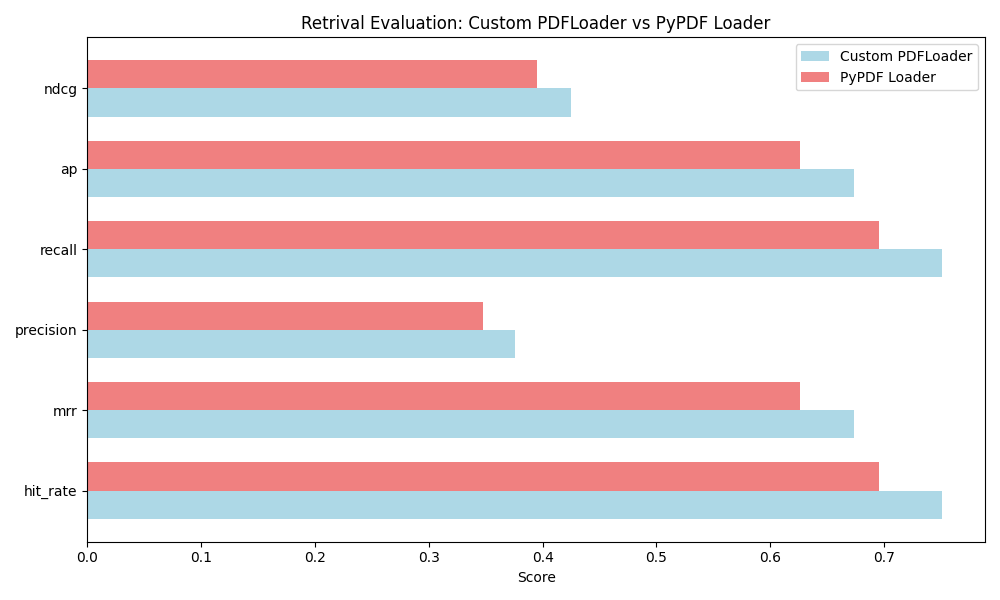
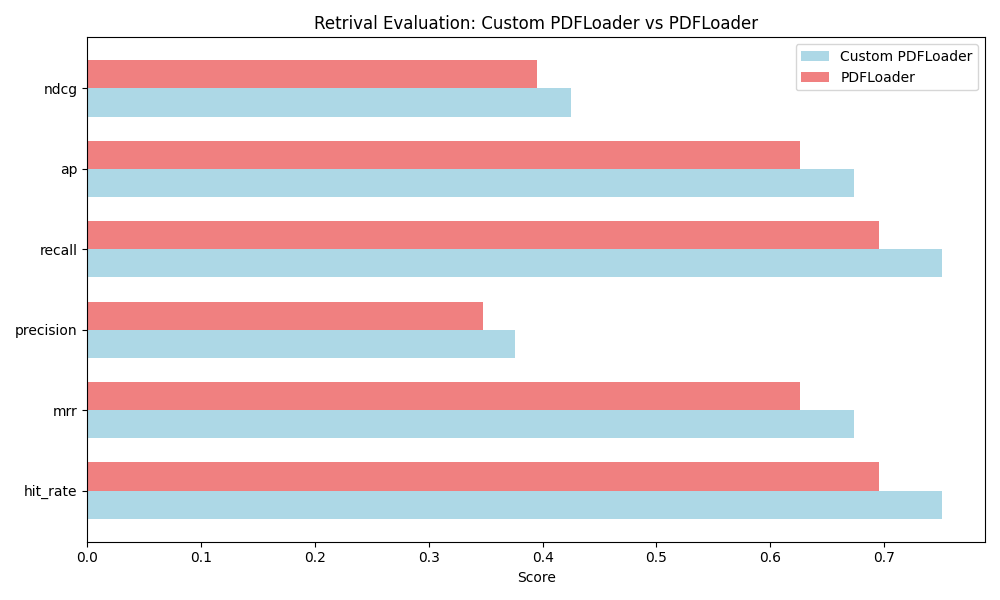
update

Changed region(s): [[0.279, 0.03, 0.775, 0.06], [0.837, 0.12, 0.93, 0.15]]

diff --git a/_posts/2024-08-27-pdfextractor.md b/_posts/2024-08-27-pdfextractor.md
@@ -20,10 +20,10 @@ Extracting text from PDFs are challenging in many aspects (can also read [this](
 
 <!-- Recently, the new model [ColPali](https://arxiv.org/html/2407.01449v2) has attracte a lot of attention, for its use of a vision-language model to extract information for retrieval purposes. This approach demonstrates that leveraging recent Vision Language Models can produce high-quality, contextualized embeddings directly from images of document pages. -->
 
-There are various PDF extraction tools available on the market. Some companies offer paid solutions with advanced capabilities, while several open-source Python packages, such as `PDFPlumber` and `PyPDF`, are also very useful. In this discussion, I will compare two different free PDF extraction Python packages, highlighting their advantages and disadvantages.
+There are various PDF extraction tools available on the market. Some companies offer paid solutions with advanced capabilities, while several open-source Python packages arealso very useful, such as `PyPDF`, `PDFPlumber`,etc.  In this discussion, I will compare effects of PDF extraction on the retreival performance. 
 
 
-## pdfplumber vs pypdf 
+## PDF extraction
 
 
 The following example compares the extraction results of pdfplumber and pypdf using a PDF excerpt from the [Swiss Civil Code](https://www.fedlex.admin.ch/eli/cc/24/233_245_233/en). The PDF page presents a high level of complexity, with text that is discontinuously arranged and interspersed with numerous footnotes.
@@ -49,15 +49,14 @@ The following example compares the extraction results of pdfplumber and pypdf us
 {% endif %}
 {:/nomarkdown}
 
-
-On the other hand, [`pypdf`](https://pypi.org/project/pypdf/) also allows for text extraction while maintaining the layout. You can use `visitor` functions to control which parts of a page you want to process and extract. However, it does not support extracting the coordinates of words.
+if we use pdfplumber directly without processing, the results looks like
 
 
 ## Evaluation
 
-I built two data loaders: one called `Custom PDFLoader`, which uses `pdfplumber` to combine discontinuous chunks into continuous sequences, and another called `PyPDF Loader`, which extracts the sequences directly using `PyPDF` without additional postprocessing.
+I built two data loaders: one called `Custom PDFLoader`, which uses `pdfplumber` to combine discontinuous chunks into continuous sequences, and another called `PDFLoader`, which extracts the sequences directly using `pdfplumber` without additional postprocessing.
 
-Here, I will use the `RetrieverEvaluator` module provided in `LLAMAIndex` to evaluate retrieval quality by comparing these two methods of PDF extraction: `Custom PDFLoader` and `PyPDF Loader`. I will use a `top-2 retriever` for this evaluation.
+Here, I will use the `RetrieverEvaluator` module provided in `LLAMAIndex` to evaluate retrieval quality by comparing these two methods of PDF extraction: `Custom PDFLoader` and `PDFLoader`. I will use a `top-2 retriever` for this evaluation.
 
 
 * First, I used the `generate_question_context_pairs` function to auto-generate a set of (question, context) pairs over the entire PDF file [Swiss Civil Code](https://www.fedlex.admin.ch/eli/cc/24/233_245_233/en), which contains about 350 pages. I generated 2 questions from each context chunk, resulting in a total number of questions.
